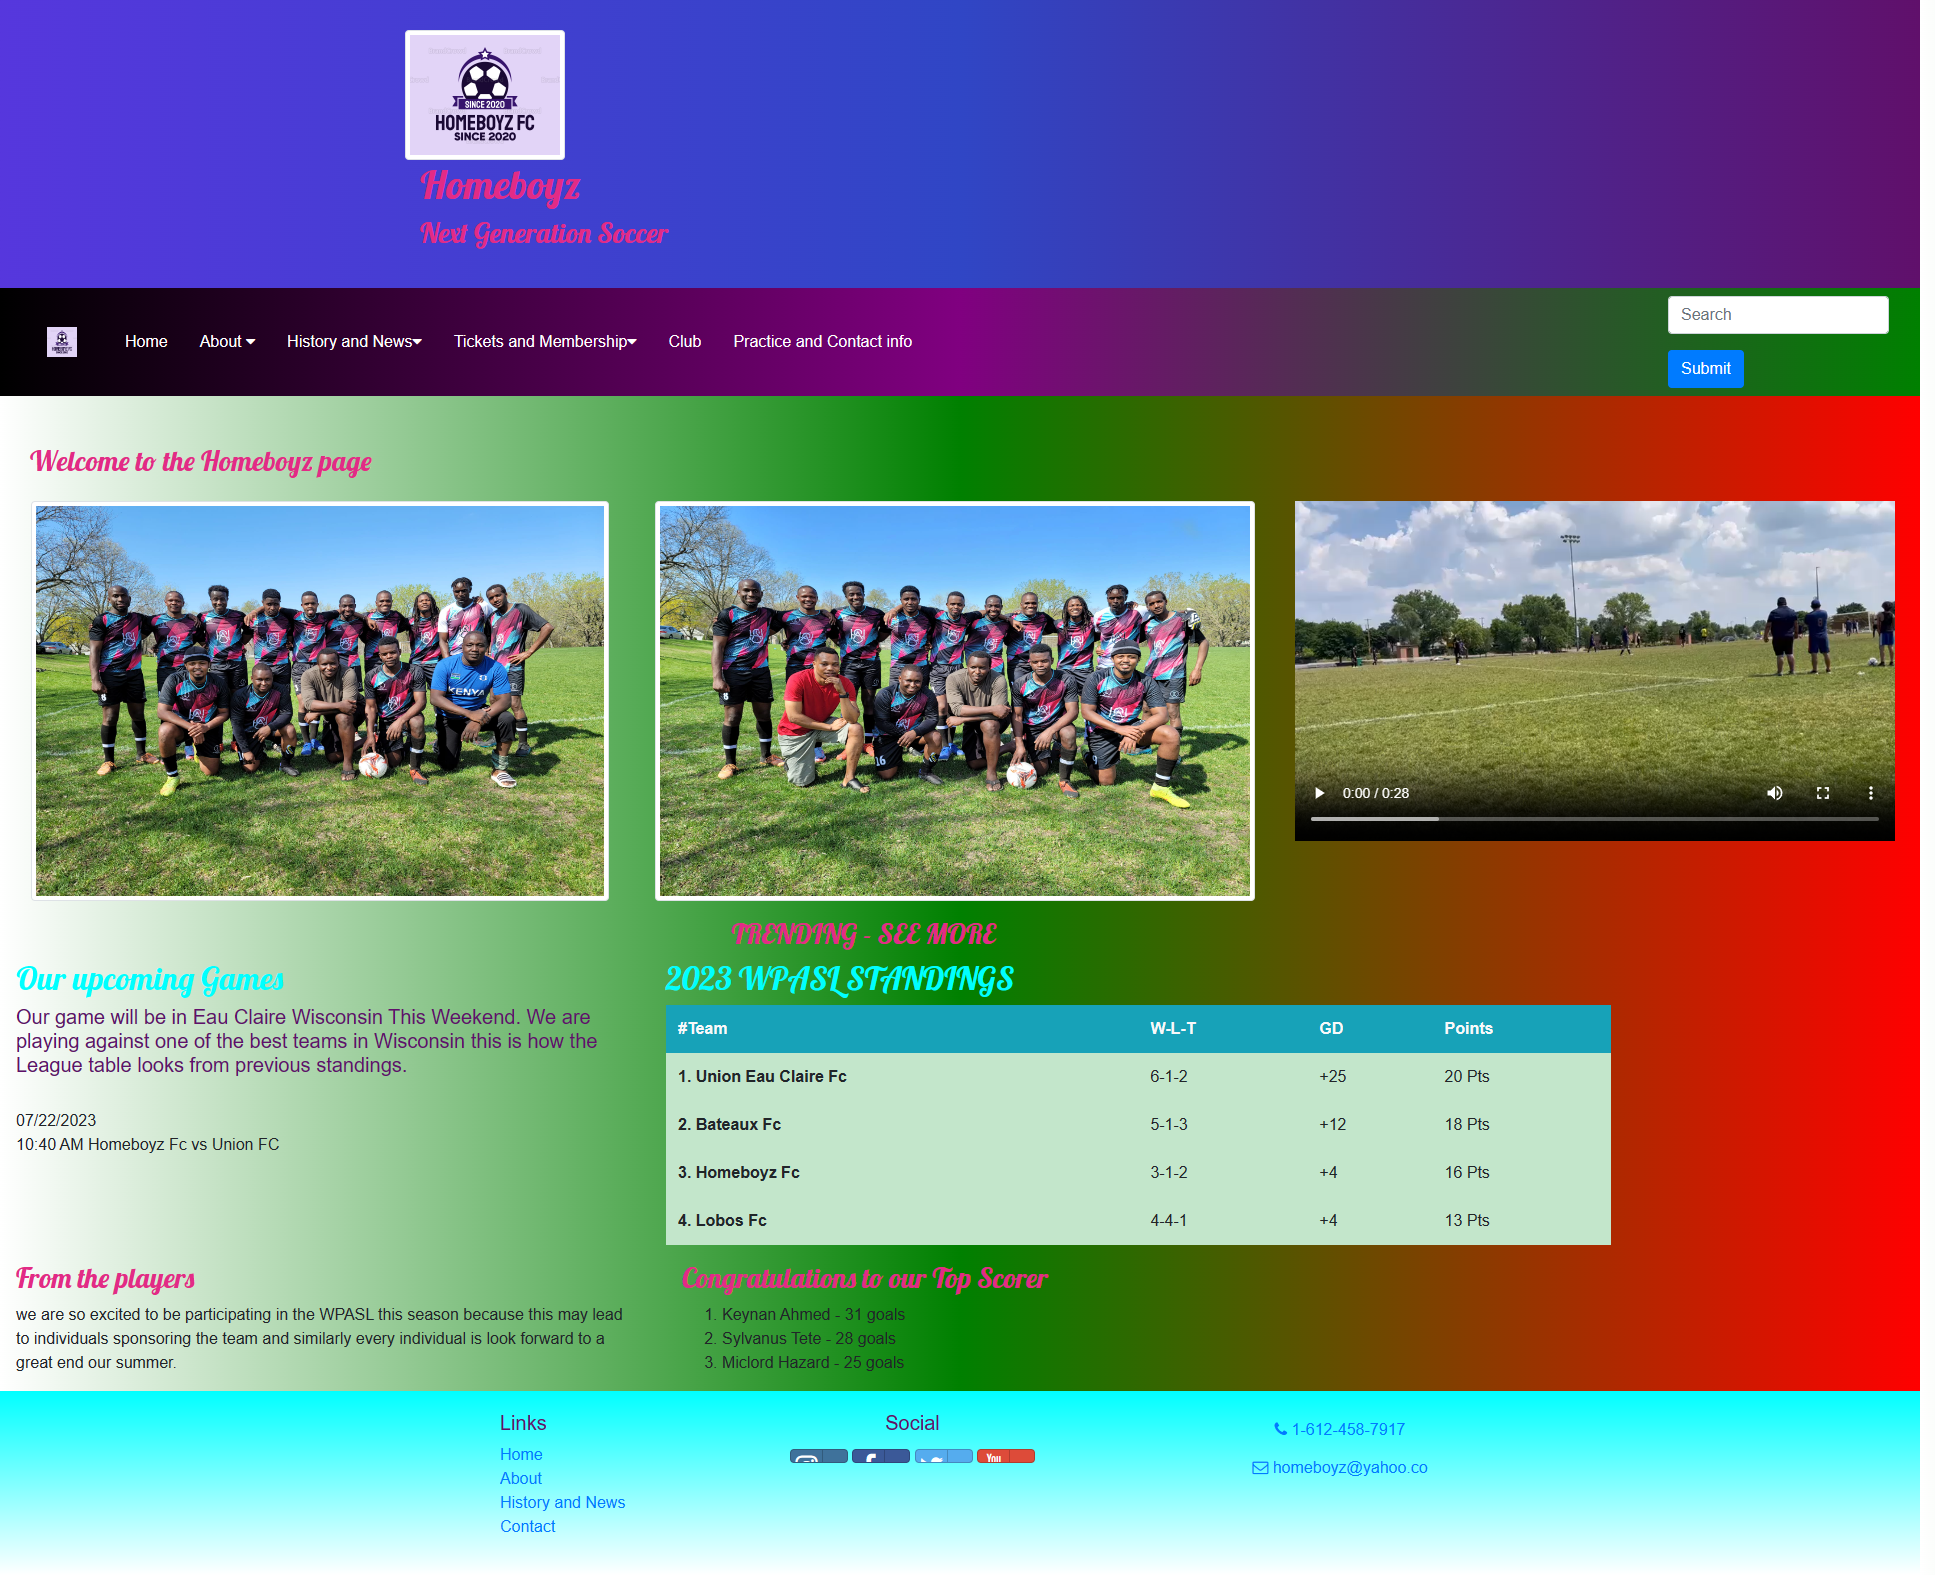
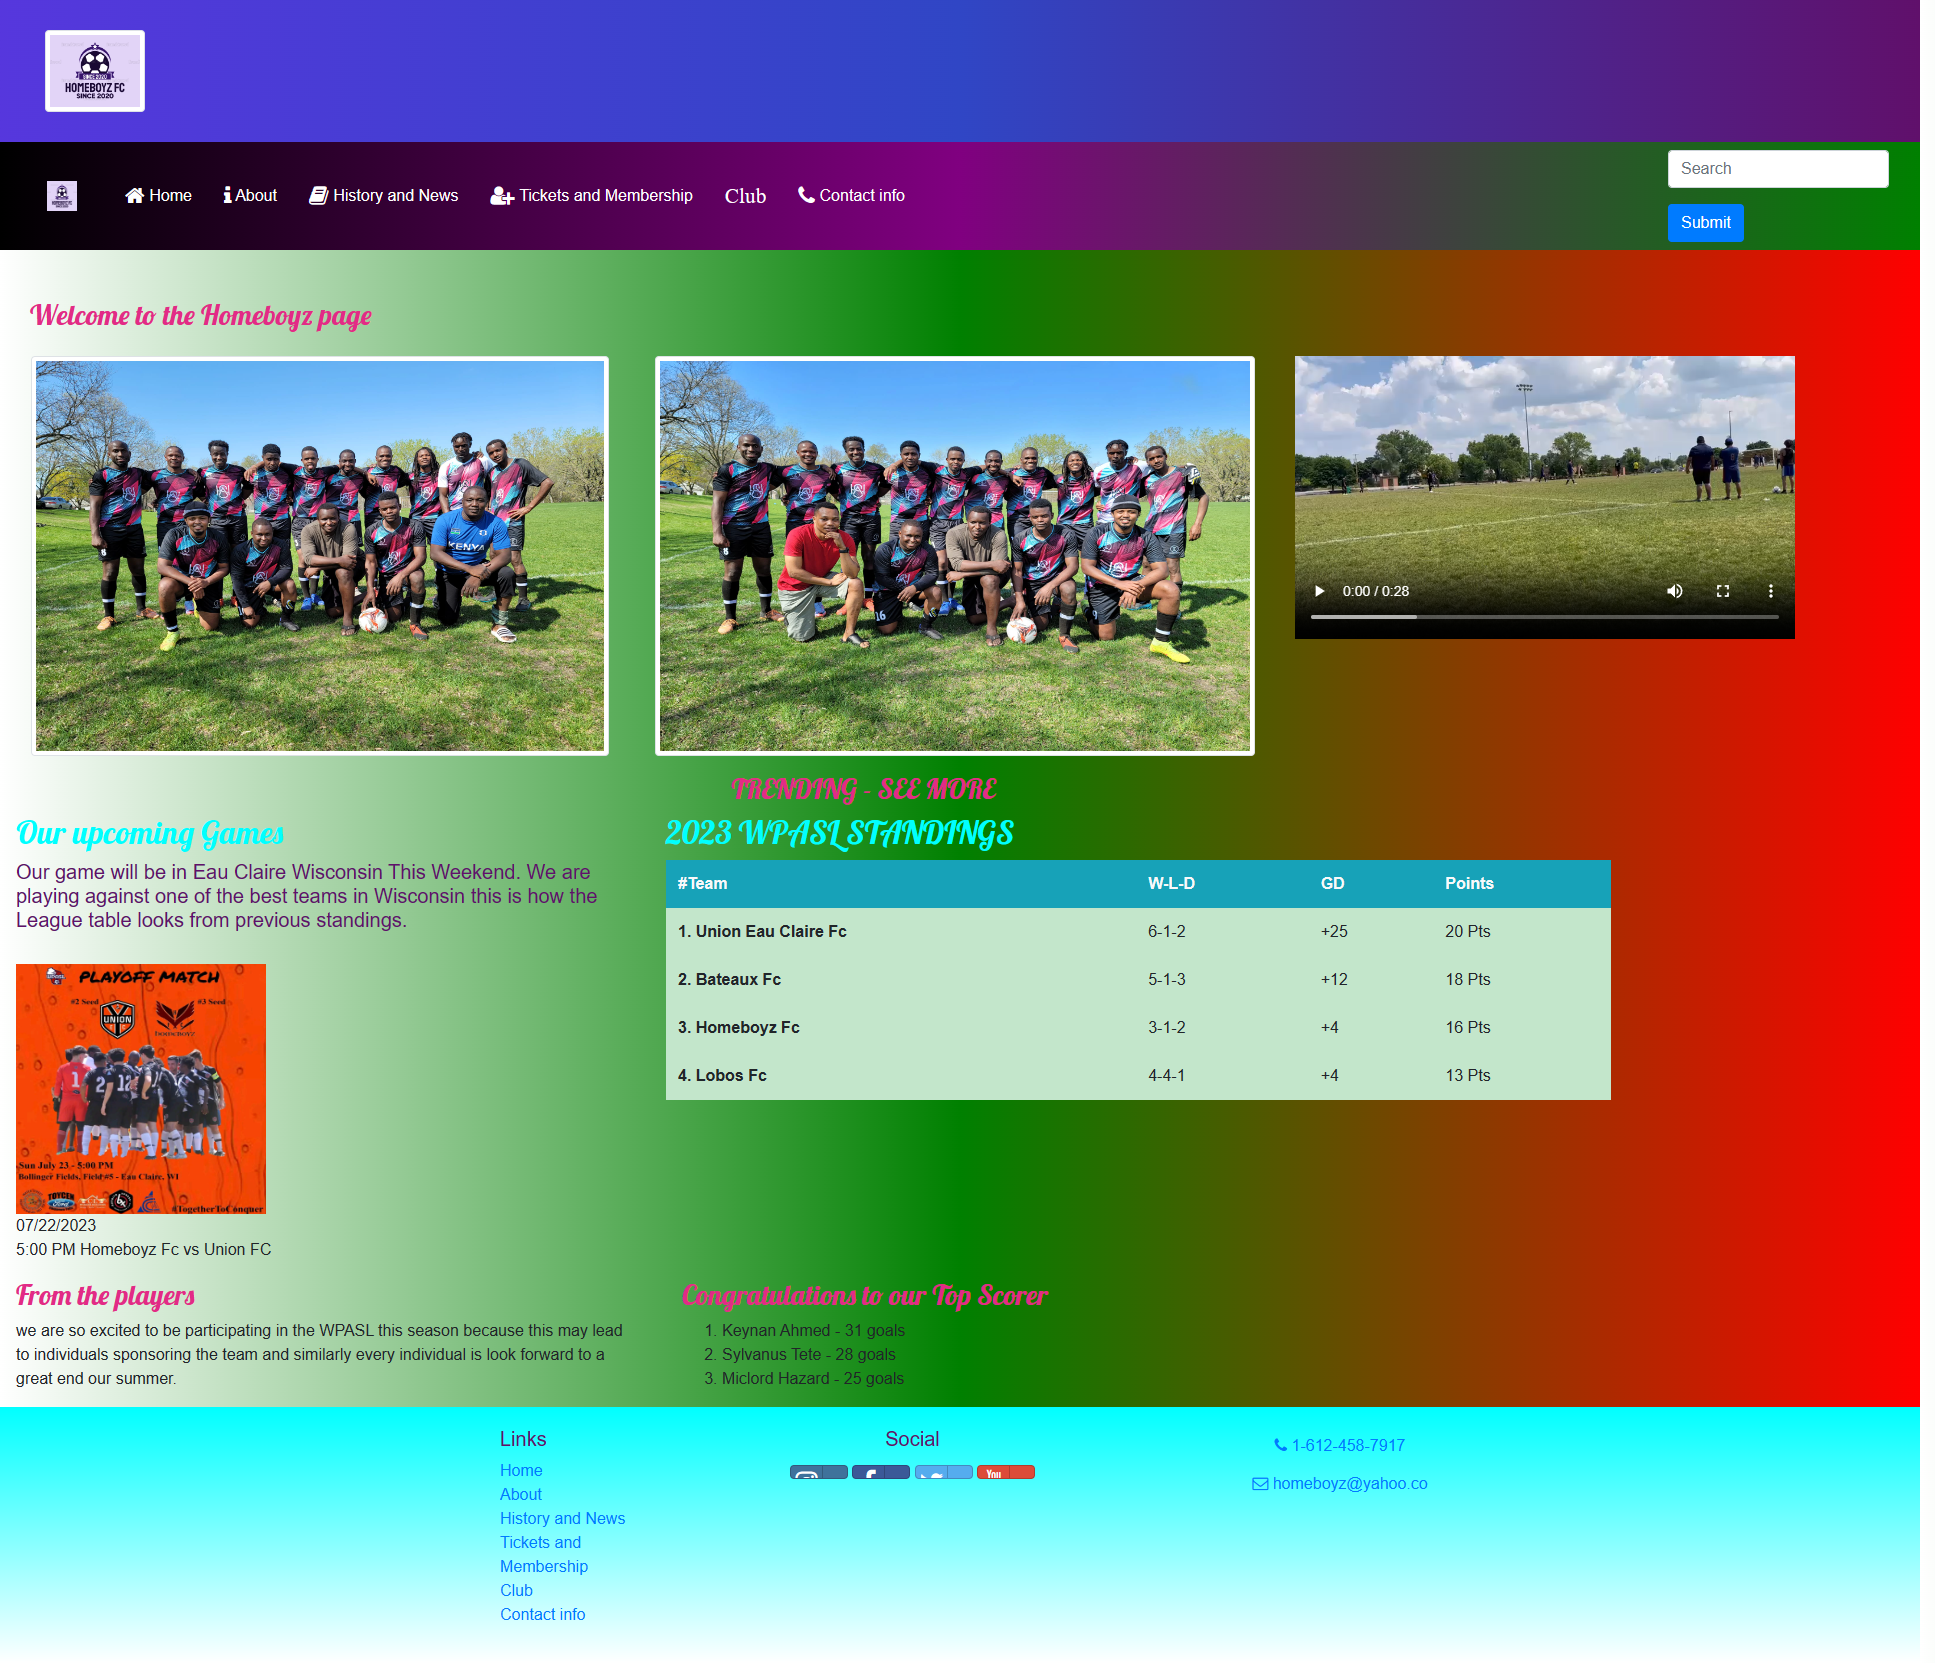
added peopleVolunteers to all the other files.

diff --git a/aboutHomeboyz.html b/aboutHomeboyz.html
@@ -56,8 +56,7 @@
                         </div>
                     </div>
                     <div class="subnav">
-                        <button class="subnavbtn"><i class="fa fa-user-plus fa-lg"></i> Tickets and Membership<i
-                                class="fa fa-caret-down"></i></button>
+                        <button class="subnavbtn"><i class="fa fa-user-plus fa-lg"></i> Tickets and Membership</button>
                         <div class="subnav-content">
                             <div class="col">
                                 <span class="navbar-text ml-auto">
@@ -149,6 +148,45 @@
             </div>
         </div>
     </div>
+    <div id="loginModal" class="modal fade" role="dialog">
+        <div class="modal-dialog" role="document">
+            <div class="modal-content">
+                <div class="modal-header">
+                    <h3 class="modal-title">Login</h3>
+                    <button type="button" class="close" data-dismiss="modal">&times;</button>
+                </div>
+                <div class="modal-body">
+                    <div class="container-fluid">
+                        <form>
+                            <div class="form-row">
+                                <div class="form-group col-12">
+                                    <label class="sr-only" for="loginEmail">Enter Username:</label>
+                                    <input type="email" class="form-control form-control-sm" id="loginEmail"
+                                        placeholder="Enter Username:">
+                                </div>
+                                <div class="form-group col-12">
+                                    <label class="sr-only" for="loginPassword">Password</label>
+                                    <input type="password" class="form-control form-control-sm" id="loginPassword"
+                                        placeholder="Password">
+                                </div>
+                                <div class="col">
+                                    <div class="form-check">
+                                        <input class="form-check-input" type="checkbox">
+                                        <label class="form-check-label"> Remember me</label>
+                                    </div>
+                                </div>
+                            </div>
+                            <div class="form-row">
+                                <button type="button" class="btn btn-secondary btn-sm ml-auto"
+                                    data-dismiss="modal">Cancel</button>
+                                <button type="submit" class="btn btn-primary btn-sm ml-1">Sign in</button>
+                            </div>
+                        </form>
+                    </div>
+                </div>
+            </div>
+        </div>
+    </div>
 
     <div id="ticketsGames" class="modal fade" role="dialog">
         <div class="modal-dialog" role="document">
@@ -161,11 +199,13 @@
                     <div class="container-fluid">
                         <form>
                             <div class="form-row">
-                            <div class="form-group col-12">
-                                <label for="psw"><i class="fa fa-shopping-cart fa-lg"></i> Tickets, $23 per person</label>
-                                <input type="number" class="form-control" id="psw" placeholder="How many Tickets would you like?">
+                                <div class="form-group col-12">
+                                    <label for="psw"><i class="fa fa-shopping-cart fa-lg"></i> Tickets, $23 per
+                                        person</label>
+                                    <input type="number" class="form-control" id="psw"
+                                        placeholder="How many Tickets would you like?">
+                                </div>
                             </div>
-                         </div>
                             <div class="form-row">
                                 <div class="form-group col-12">
                                     <label class="sr-only" for="loginEmail">Email address</label>
@@ -195,29 +235,29 @@
                     <div class="container-fluid">
                         <form>
                             <div class="form-row">
-                            <div class="form-group col-12">
-                                <p class="text-primary">Enter your phone number<label class="sr-only"
-                                    for="phone number">Phone number</label></p>
-                            <input type="email" class="form-control form-control-sm" id="loginEmail"
-                                placeholder="#(###)-###-####">
-                            </div>
-                         </div>
-                            <div class="form-row">
                                 <div class="form-group col-12">
-                                    <p class="text-primary">Enter your email address<label class="sr-only"
-                                        for="loginEmail">Email address</label></p>
-                                        <input type="email" class="form-control form-control-sm" id="loginEmail"
-                                    placeholder="Enter email">
+                                    <p class="text-primary">Enter your phone number<label class="sr-only"
+                                            for="phone number">Phone number</label></p>
+                                    <input type="email" class="form-control form-control-sm" id="loginEmail"
+                                        placeholder="#(###)-###-####">
                                 </div>
                             </div>
                             <div class="form-row">
-                            <div class="form-group col-12">
-                                <p class="text-primary">Enter your Shipping Address <label class="sr-only"
-                                    for="mailingAddress">Shipping Address</label></p>
-                                <input type="email" class="form-control form-control-sm" id="loginEmail"
-                                    placeholder="Enter Mailing Address">
+                                <div class="form-group col-12">
+                                    <p class="text-primary">Enter your email address<label class="sr-only"
+                                            for="loginEmail">Email address</label></p>
+                                    <input type="email" class="form-control form-control-sm" id="loginEmail"
+                                        placeholder="Enter email">
+                                </div>
                             </div>
-                        </div>
+                            <div class="form-row">
+                                <div class="form-group col-12">
+                                    <p class="text-primary">Enter your Shipping Address <label class="sr-only"
+                                            for="mailingAddress">Shipping Address</label></p>
+                                    <input type="email" class="form-control form-control-sm" id="loginEmail"
+                                        placeholder="Enter Mailing Address">
+                                </div>
+                            </div>
                             <div class="form-row">
                                 <button type="button" class="btn btn-secondary btn-sm ml-auto"
                                     data-dismiss="modal">Cancel</button>

diff --git a/index.html b/index.html
@@ -56,8 +56,7 @@
                         </div>
                     </div>
                     <div class="subnav">
-                        <button class="subnavbtn"><i class="fa fa-user-plus fa-lg"></i> Tickets and Membership<i
-                                class="fa fa-caret-down"></i></button>
+                        <button class="subnavbtn"><i class="fa fa-user-plus fa-lg"></i> Tickets and Membership</button>
                         <div class="subnav-content">
                             <div class="col">
                                 <span class="navbar-text ml-auto">
@@ -163,9 +162,9 @@
                         <form>
                             <div class="form-row">
                                 <div class="form-group col-12">
-                                    <label class="sr-only" for="loginEmail">Email address</label>
+                                    <label class="sr-only" for="loginEmail">Enter Username:</label>
                                     <input type="email" class="form-control form-control-sm" id="loginEmail"
-                                        placeholder="Enter email">
+                                        placeholder="Enter Username:">
                                 </div>
                                 <div class="form-group col-12">
                                     <label class="sr-only" for="loginPassword">Password</label>
@@ -288,7 +287,7 @@
             </div>
             <div class="col col-sm-4 mt-3">
                 <video width="500" controls>
-                    <source src="images/VIDEO-2023-07-05-21-11-52.mp4" type="video/mp4">
+                    <source src="images/VIDEO-2023-07-05-21-11-52.mp4" type="video/mp4" height="600">
                 </video>
 
             </div>
@@ -309,7 +308,8 @@
             <br>
             <ul class="list-unstyled">
                 <li>
-                    <date>07/22/2023</date><br> <time>10:40 AM</time>
+                    <img class="align-items-center"src="images/3 seed.JPG" alt="match on sunday" width="250" height="250"><br>
+                    <date>07/22/2023</date><br> <time>5:00 PM</time>
                     Homeboyz Fc vs Union FC
                 </li>
             </ul>

diff --git a/socialMedia.html b/socialMedia.html
@@ -61,8 +61,7 @@
                             </div>
                         </div>
                         <div class="subnav">
-                            <button class="subnavbtn"><i class="fa fa-user-plus fa-lg"></i>Tickets and Membership<i
-                                    class="fa fa-caret-down"></i></button>
+                            <button class="subnavbtn"><i class="fa fa-user-plus fa-lg"></i>Tickets and Membership</button>
                             <div class="subnav-content">
                                 <div class="col">
                                     <span class="navbar-text ml-auto">
@@ -169,9 +168,9 @@
                             <form>
                                 <div class="form-row">
                                     <div class="form-group col-12">
-                                        <label class="sr-only" for="loginEmail">Email address</label>
+                                        <label class="sr-only" for="loginEmail">Enter Username:</label>
                                         <input type="email" class="form-control form-control-sm" id="loginEmail"
-                                            placeholder="Enter email">
+                                            placeholder="Enter Username:">
                                     </div>
                                     <div class="form-group col-12">
                                         <label class="sr-only" for="loginPassword">Password</label>
